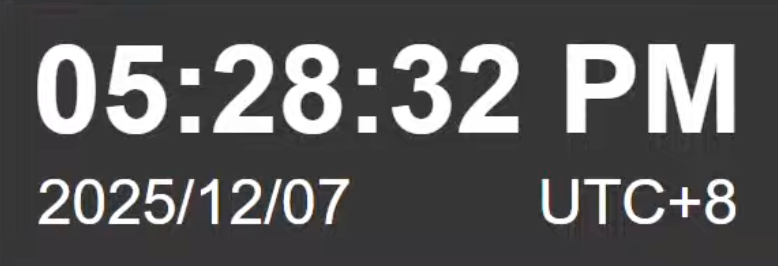
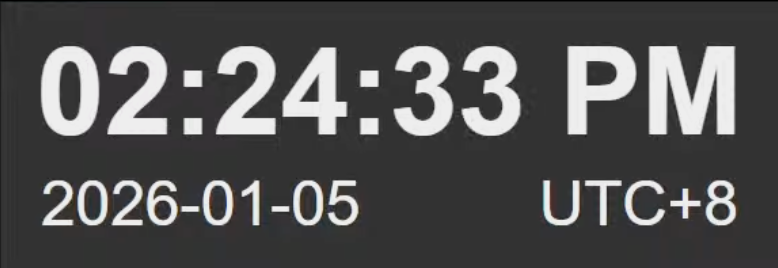
Add files via upload

diff --git a/time_small.html b/time_small.html
@@ -1,0 +1,68 @@
+<!DOCTYPE html>
+<head>
+    <meta charset="UTF-8">
+    <meta name="viewport" content="width=device-width, initial-scale=1.0">
+    <title>Time by TainanEQC</title>
+    <style>
+        body {
+            background-color: #000;
+            margin: 0;
+            padding: 0;
+            height: 100vh;
+            overflow: hidden;
+        }
+
+        #Time {
+            width: 580px;
+            height: 64px;
+            background-color: #1c1c1c;
+            position: absolute;
+            top: 0;
+            left: 0;
+            display: flex;
+            justify-content: center;
+            align-items: center;
+            color: #fff;
+            font-size: 46px;
+            font-family: Arial, "Noto Sans CJK TC", sans-serif; 
+        }
+    </style>
+</head>
+<body>
+    <div id="Time">
+        <script type="text/javascript">
+		function showTime(){
+			var date = new Date();
+			var h = 	date.getHours();
+			var m = 	date.getMinutes();
+			var s =		date.getSeconds();
+			var yyyy =  date.getFullYear();
+			var month = (date.getMonth() + 1).toString().padStart(2, '0');
+			var dd = 	date.getDate().toString().padStart(2, '0');
+			var session = "AM";
+			if (h == 0) {
+				h = 12;
+			}
+			if (h > 12) {
+				h = h - 12;
+				session = "PM";
+			}
+			if (h < 10) {
+				h = "0" + h;
+			}
+			if (m < 10) {
+				m = "0" + m;
+			}
+			if (s < 10) {
+				s = "0" + s;
+			}
+			var time = yyyy + "-" + month + "-" + dd + "┆" + h + ":" + m + ":" + s + " " + session + " ";
+			document.getElementById("Time").innerText = time;
+			document.getElementById("Time").textContent = time;
+			setTimeout(showTime,500);
+		}
+		showTime();
+        </script>
+    </div>
+</body>
+</html>

diff --git a/time.html b/time.html
@@ -127,7 +127,7 @@
                 `${h}:${m}:${s} ${session}`;
 
             document.getElementById("date-text").textContent =
-                `${yyyy}/${month}/${dd}`;
+                `${yyyy}-${month}-${dd}`;
 
             setTimeout(showTime, 500);
         }
